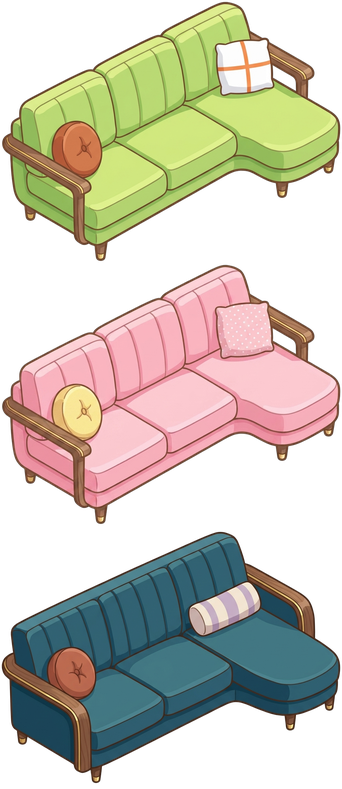
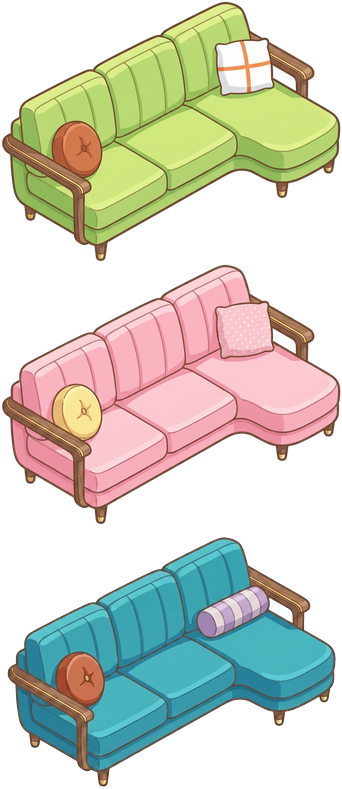
fix(customer): 修复双单可交付时误删订单；更新海蓝沙发合图
交付后按 uid 重新定位待移除客人，避免 _rescanAll 重排后 splice 错单；海蓝弧翼沙发按粉沙发原型重生成并替换合图第三行。

Changed region(s): [[0.0, 0.6692, 1.0, 1.0]]

diff --git a/src/managers/CustomerManager.ts b/src/managers/CustomerManager.ts
@@ -660,7 +660,11 @@ class CustomerManagerClass {
       `[Customer] 交付完成: ${customer.name}(${customer.tier}), 花愿+${hy}${weekendBonus > 0 ? ` (周末+${weekendBonus})` : ''}${diamonds > 0 ? `, 钻石+${diamonds}` : ''}${customer.staminaChestReward ? `, 体力箱→收纳盒 ${customer.staminaChestReward}` : ''}${customer.workshopMaterialRewards?.length ? `, 工坊材料+${customer.workshopMaterialRewards.length}种` : ''}`,
     );
 
-    this._customers.splice(idx, 1);
+    // removeItem 会触发 _rescanAll，并可能把仍可完成的其它客人排到队首；
+    // 因此这里不能再使用交付开始时缓存的 idx，否则会误删重排后的其它订单。
+    const removeIdx = this._customers.findIndex(c => c.uid === uid);
+    if (removeIdx < 0) return false;
+    this._customers.splice(removeIdx, 1);
     EventBus.emit('customer:delivered', uid, customer);
 
     this._rescanAll();